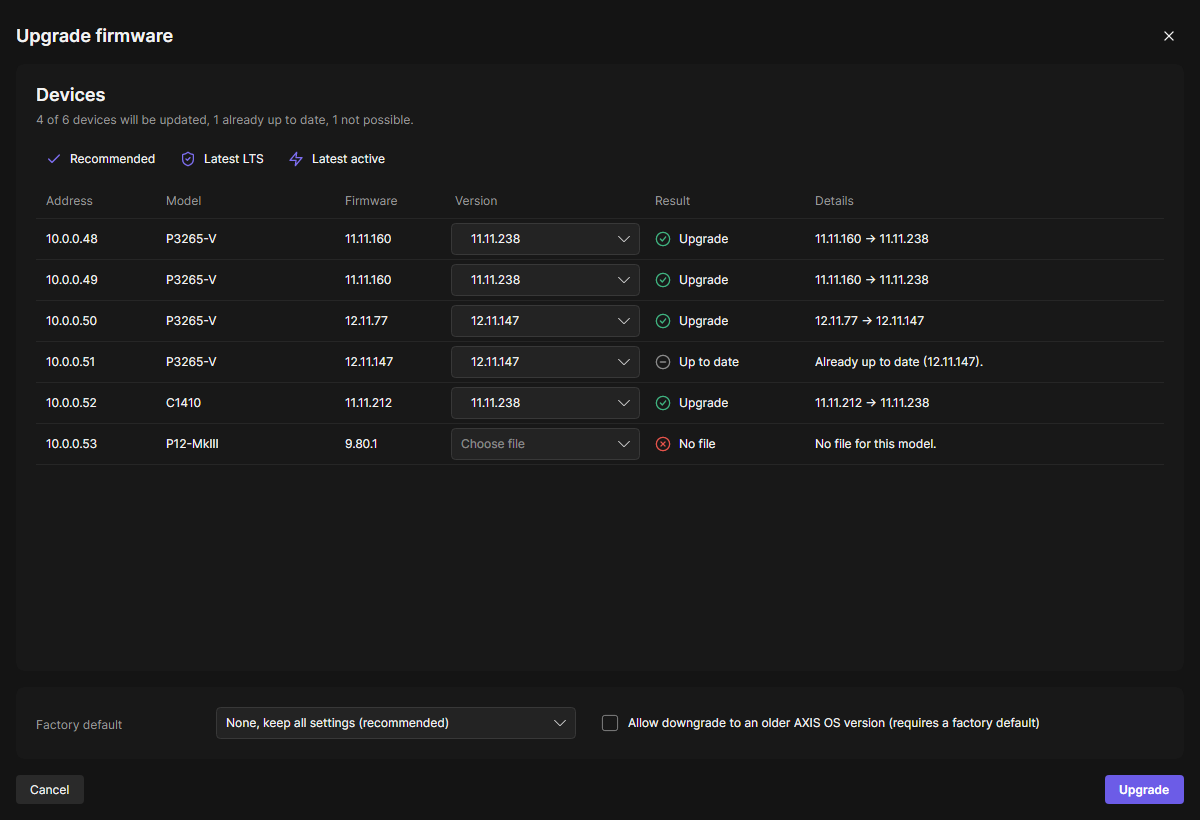
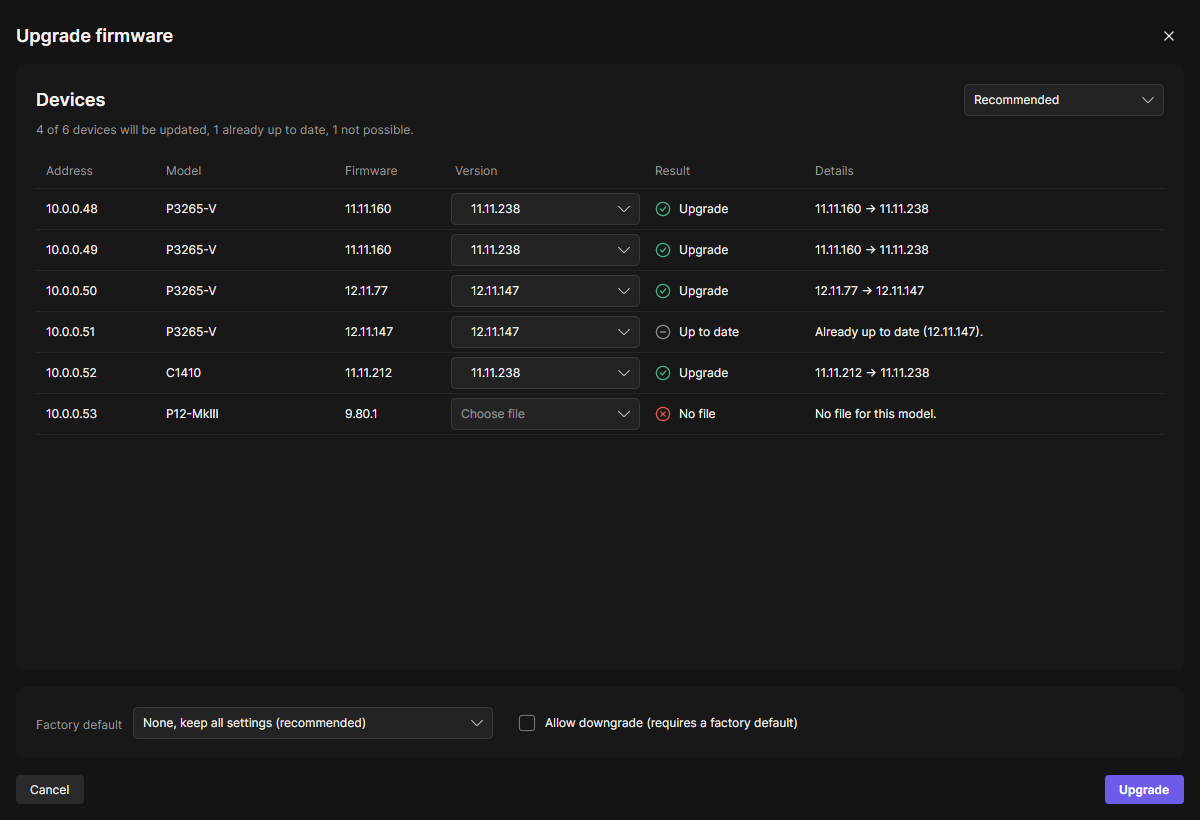
feat(firmware): Set versions select or Sign in to MyAxis in the device card header; tighter options row
One select (Recommended, Latest LTS, Latest active) replaces the three buttons, shown once the versions arrived and signed in; it shows its entry until a device is changed by hand. The sign-in text line is gone. Allow downgrade (requires a factory default).

diff --git a/plugins/Oadm.Plugins.Firmware.Client/FirmwareDialogViewModel.cs b/plugins/Oadm.Plugins.Firmware.Client/FirmwareDialogViewModel.cs
@@ -118,11 +118,54 @@ public sealed partial class FirmwareDialogViewModel : ObservableObject, IDisposa
     public bool CanSignIn { get; }
 
     [ObservableProperty]
-    [NotifyPropertyChangedFor(nameof(ShowSignIn))]
+    [NotifyPropertyChangedFor(nameof(ShowSignIn), nameof(ShowRules))]
     public partial bool IsSignedIn { get; private set; }
 
-    /// <summary>The line "Sign in to MyAxis to download from axis.com." with its button.</summary>
+    /// <summary>The command button "Sign in to MyAxis" right in the header of the device card (not signed in).</summary>
     public bool ShowSignIn => CanSignIn && !IsSignedIn;
+
+    /// <summary>The select "Set versions" right in the header: signed in and the versions of axis.com arrived.</summary>
+    public bool ShowRules => IsSignedIn && HasOnline && !IsLookingUp && !OnlineUnreachable;
+
+    public const string SetVersionsText = "Set versions";
+
+    /// <summary>The entries of the select "Set versions"; each sets every device.</summary>
+    public IReadOnlyList<VersionRule> Rules { get; } =
+    [
+        new("Recommended", OnlineFirmware.Recommended),
+        new("Latest LTS", (model, _) => OnlineFirmware.LatestLts(model)),
+        new("Latest active", (model, _) => OnlineFirmware.LatestActive(model)),
+    ];
+
+    private VersionRule? _selectedRule;
+
+    /// <summary>
+    /// The rule that set every device; it shows until a device is changed by hand, then the select shows "Set versions"
+    /// again. Choosing one applies it to every device (behind the ring for a large selection).
+    /// </summary>
+    public VersionRule? SelectedRule
+    {
+        get => _selectedRule;
+        set
+        {
+            if (value is null || ReferenceEquals(value, _selectedRule))
+            {
+                OnPropertyChanged();
+                return;
+            }
+
+            _ = ApplyRuleAsync(value.Rule, onlyUnchosen: false, value);
+        }
+    }
+
+    private void ShowRule(VersionRule? rule)
+    {
+        if (!ReferenceEquals(rule, _selectedRule))
+        {
+            _selectedRule = rule;
+            OnPropertyChanged(nameof(SelectedRule));
+        }
+    }
 
     /// <summary>Opens the MyAxis sign-in window (set by the dialog: <c>ITaskDialogContext.MyAxis.SignInAsync(window)</c>).</summary>
     public Func<Task<bool>>? SignInHandler { get; set; }
@@ -130,6 +173,7 @@ public sealed partial class FirmwareDialogViewModel : ObservableObject, IDisposa
     /// <summary>True while the versions are read from axis.com.</summary>
     [ObservableProperty]
     [NotifyCanExecuteChangedFor(nameof(RecommendedCommand), nameof(LatestLtsCommand), nameof(LatestActiveCommand))]
+    [NotifyPropertyChangedFor(nameof(ShowRules))]
     public partial bool IsLookingUp { get; private set; }
 
     /// <summary>0-100: models read of all.</summary>
@@ -141,11 +185,13 @@ public sealed partial class FirmwareDialogViewModel : ObservableObject, IDisposa
 
     /// <summary>axis.com did not answer: "axis.com could not be reached." above the table, the devices keep Choose file.</summary>
     [ObservableProperty]
+    [NotifyPropertyChangedFor(nameof(ShowRules))]
     public partial bool OnlineUnreachable { get; private set; }
 
     /// <summary>Some model is listed on axis.com (the buttons have something to set).</summary>
     [ObservableProperty]
     [NotifyCanExecuteChangedFor(nameof(RecommendedCommand), nameof(LatestLtsCommand), nameof(LatestActiveCommand))]
+    [NotifyPropertyChangedFor(nameof(ShowRules))]
     public partial bool HasOnline { get; private set; }
 
     /// <summary>
@@ -433,20 +479,21 @@ public sealed partial class FirmwareDialogViewModel : ObservableObject, IDisposa
             HasOnline = _models.Values.Any(m => m.IsListed);
         }
 
-        await (IsSignedIn ? ApplyRuleAsync(OnlineFirmware.Recommended, onlyUnchosen: true) : RefreshAsync()).ConfigureAwait(true);
+        var none = !Devices.Any(d => d.SelectedChoice is not null);
+        await (IsSignedIn ? ApplyRuleAsync(OnlineFirmware.Recommended, onlyUnchosen: true, none ? Rules[0] : null) : RefreshAsync()).ConfigureAwait(true);
     }
 
     /// <summary>Every device: the newest version on its own track.</summary>
     [RelayCommand(CanExecute = nameof(CanApplyRule))]
-    private Task RecommendedAsync() => ApplyRuleAsync(OnlineFirmware.Recommended, onlyUnchosen: false);
+    private Task RecommendedAsync() => ApplyRuleAsync(Rules[0].Rule, onlyUnchosen: false, Rules[0]);
 
     /// <summary>Every device: the newest LTS track of its model.</summary>
     [RelayCommand(CanExecute = nameof(CanApplyRule))]
-    private Task LatestLtsAsync() => ApplyRuleAsync((model, _) => OnlineFirmware.LatestLts(model), onlyUnchosen: false);
+    private Task LatestLtsAsync() => ApplyRuleAsync(Rules[1].Rule, onlyUnchosen: false, Rules[1]);
 
     /// <summary>Every device: the active track of its model, else its newest version.</summary>
     [RelayCommand(CanExecute = nameof(CanApplyRule))]
-    private Task LatestActiveAsync() => ApplyRuleAsync((model, _) => OnlineFirmware.LatestActive(model), onlyUnchosen: false);
+    private Task LatestActiveAsync() => ApplyRuleAsync(Rules[2].Rule, onlyUnchosen: false, Rules[2]);
 
     private bool CanApplyRule() => HasOnline && !IsLookingUp && !IsUploading && !IsBusy;
 
@@ -455,8 +502,9 @@ public sealed partial class FirmwareDialogViewModel : ObservableObject, IDisposa
     /// <see cref="BackgroundFrom"/> devices it runs off the UI thread behind the busy ring (HARD RULE loading feedback: the
     /// three buttons take about 0.6 s each at 100,000 devices); only setting the results touches the rows on the UI thread.
     /// </summary>
-    private Task ApplyRuleAsync(Func<OnlineModel, int?, string?> rule, bool onlyUnchosen)
+    private Task ApplyRuleAsync(Func<OnlineModel, int?, string?> rule, bool onlyUnchosen, VersionRule? shown = null)
     {
+        ShowRule(shown);
         if (Devices.Count < BackgroundFrom)
         {
             SetPicks(Picks([.. Devices], rule, onlyUnchosen));
@@ -614,12 +662,13 @@ public sealed partial class FirmwareDialogViewModel : ObservableObject, IDisposa
         }
 
         IsSignedIn = signedIn;
-        _ = signedIn && _lookupDone ? ApplyRuleAsync(OnlineFirmware.Recommended, onlyUnchosen: true) : RefreshAsync();
+        _ = signedIn && _lookupDone ? ApplyRuleAsync(OnlineFirmware.Recommended, onlyUnchosen: true, Devices.Any(d => d.SelectedChoice is not null) ? null : Rules[0]) : RefreshAsync();
     }
 
     /// <summary>The user chose in one device's field: only that device changes.</summary>
     private void OnChosen(FirmwareDeviceRow row, GroupedChoice? choice)
     {
+        ShowRule(null); // changed by hand: the select shows "Set versions" again
         if (choice?.Value is ChooseFileAction)
         {
             _ = ChooseFileForAsync(row);
@@ -1112,6 +1161,12 @@ public sealed partial class FirmwareDialogViewModel : ObservableObject, IDisposa
         OnPropertyChanged(nameof(StartBlockedReason));
         StartCommand.NotifyCanExecuteChanged();
     }
+}
+
+/// <summary>An entry of the select "Set versions": its name and the version it gives a device (model, AXIS OS major).</summary>
+public sealed record VersionRule(string Name, Func<OnlineModel, int?, string?> Rule)
+{
+    public override string ToString() => Name;
 }
 
 /// <summary>Ids shared with the server part (kept here so the client does not reference the server assembly).</summary>

diff --git a/tests/Oadm.Plugins.Firmware.Tests/FirmwareOnlineDialogTests.cs b/tests/Oadm.Plugins.Firmware.Tests/FirmwareOnlineDialogTests.cs
@@ -183,6 +183,57 @@ public sealed class FirmwareOnlineDialogTests
     }
 
     [Fact]
+    public async Task The_select_sets_every_device_and_shows_its_rule_until_a_device_is_changed_by_hand()
+    {
+        Device[] devices = [new("10.0.1.1", "Q1800-LE", "11.11.200"), new("10.0.1.2", "Q1800-LE", "12.11.100"), new("10.0.1.3", "Q1800-LE", "13.0.88")];
+        var gate = new TaskCompletionSource(TaskCreationOptions.RunContinuationsAsynchronously);
+        var ctx = Context(ActiveSite());
+        var online = ctx.Online!;
+        ctx.Online = async (method, payload, ct) =>
+        {
+            await gate.Task.WaitAsync(ct);
+            return await online(method, payload, ct);
+        };
+        using var vm = new DialogViewModel(ctx, devices, new FakeFileSource());
+        Assert.False(vm.ShowRules); // nothing read yet
+        Assert.False(vm.ShowSignIn); // signed in: the select, never the button
+
+        var lookup = vm.LoadOnlineAsync(CancellationToken.None);
+        Assert.False(vm.ShowRules); // hidden while the lookup runs
+        gate.SetResult();
+        await lookup;
+
+        Assert.True(vm.ShowRules);
+        Assert.Equal(["Recommended", "Latest LTS", "Latest active"], vm.Rules.Select(r => r.Name));
+        Assert.Equal("Recommended", vm.SelectedRule?.Name); // the dialog opened with Recommended
+
+        vm.SelectedRule = vm.Rules[1];
+        Assert.Equal("Latest LTS", vm.SelectedRule?.Name);
+        Assert.Equal(["12.11.147", "12.11.147", "12.11.147"], vm.Devices.Select(Chosen));
+
+        // A device changed by hand: only that device, and the select shows "Set versions" again.
+        vm.Devices[0].SelectedChoice = vm.Devices[0].Choices.Single(c => c.Text == "11.11.238");
+        Assert.Null(vm.SelectedRule);
+        Assert.Equal(["11.11.238", "12.11.147", "12.11.147"], vm.Devices.Select(Chosen));
+        Assert.Equal("Set versions", DialogViewModel.SetVersionsText);
+    }
+
+    [Fact]
+    public async Task Signed_out_or_without_axis_com_there_is_no_select()
+    {
+        using var signedOut = new DialogViewModel(Context(ActiveSite(), signedIn: false), Selection(), new FakeFileSource());
+        await signedOut.LoadOnlineAsync(CancellationToken.None);
+        Assert.False(signedOut.ShowRules);
+        Assert.True(signedOut.ShowSignIn); // the button instead
+
+        using var down = new DialogViewModel(Context(new FakeAxisSite { Down = true }), Selection(), new FakeFileSource());
+        await down.LoadOnlineAsync(CancellationToken.None);
+        Assert.False(down.ShowRules);
+        Assert.False(down.ShowSignIn);
+        Assert.True(down.OnlineUnreachable);
+    }
+
+    [Fact]
     public async Task A_large_selection_sets_and_judges_behind_the_ring_with_the_buttons_waiting()
     {
         Device[] devices = [new("10.0.1.1", "Q1800-LE", "11.11.200"), new("10.0.1.2", "Q1800-LE", "12.11.100"), new("10.0.1.3", "Q1800-LE", "13.0.88")];

diff --git a/tests/Oadm.Plugins.Firmware.Tests/FirmwareTaskPluginTests.cs b/tests/Oadm.Plugins.Firmware.Tests/FirmwareTaskPluginTests.cs
@@ -136,7 +136,7 @@ public sealed class FirmwareTaskPluginTests
 
         var ex = await Assert.ThrowsAsync<InvalidOperationException>(() => Run(ctx, payload, new FakeDevice(), Plugin(), CancellationToken.None));
 
-        Assert.Contains("Downgrade 11.11.160 → 10.12.236 (older major version) is not allowed. Turn on \"Allow downgrade to an older AXIS OS version\".", ex.Message, StringComparison.Ordinal);
+        Assert.Contains("Downgrade 11.11.160 → 10.12.236 (older major version) is not allowed. Turn on \"Allow downgrade\".", ex.Message, StringComparison.Ordinal);
         Assert.Contains("Nothing was changed", ex.Message, StringComparison.Ordinal);
         Assert.DoesNotContain("upgrade", device.Methods);
         Assert.Equal(

diff --git a/plugins/Oadm.Plugins.Firmware/Shared/FirmwareCompatibility.cs b/plugins/Oadm.Plugins.Firmware/Shared/FirmwareCompatibility.cs
@@ -68,7 +68,7 @@ public sealed record FirmwareCheck(FirmwareVerdict Verdict, string Message)
 public static class FirmwareCompatibility
 {
     /// <summary>The downgrade checkbox of the dialog as the refusals name it (its label without the hint in brackets).</summary>
-    public const string AllowDowngradeName = "Allow downgrade to an older AXIS OS version";
+    public const string AllowDowngradeName = "Allow downgrade";
 
     /// <param name="apps">The device's installed applications (<see cref="InstalledAppRules"/>); null when not read.</param>
     public static FirmwareCheck Evaluate(string? deviceModel, string? deviceVersion, FirmwareImageInfo image, FactoryDefaultMode mode, bool allowDowngrade,

diff --git a/plugins/Oadm.Plugins.Firmware/README.md b/plugins/Oadm.Plugins.Firmware/README.md
@@ -81,7 +81,7 @@ Evaluated per device in the dialog (preview) and again on the server right befor
 | Same version | any | any | **Done with warning** "Already up to date", nothing uploaded |
 | Newer version | none | any | **Upgrade**, settings kept, OADM commits after verifying |
 | Newer version | soft / hard | any | **Upgrade + factory default**, device commits itself |
-| Older version (same or older major line) | any | off | **Refused** "Downgrade X → Y is not allowed. Turn on "Allow downgrade to an older AXIS OS version"." |
+| Older version (same or older major line) | any | off | **Refused** "Downgrade X → Y is not allowed. Turn on "Allow downgrade"." |
 | Older version | none | on | **Refused** "requires a factory default" (the device would answer 409) |
 | Older version | soft / hard | on | **Downgrade + factory default**, device commits itself |
 | Version or product unknown (other file name, device version unknown) | none | any | **Upload**, the device validates the image |
@@ -155,19 +155,21 @@ One table of the selected devices (virtualized, up to 100,000): Address, Model, 
 tooltip), Details. Version is the select of that device: the versions axis.com lists for its model grouped by track
 (details in "Firmware online"), the files chosen for devices of that model, and **Choose file** last (a local `.bin` for
 that device). The list is one per model and shared by its devices. Choosing on one device changes only that device; the
-buttons above the table set every device. A device without a choice shows "No file" ("No file for this model.") once
+select **Set versions** right in the header of the device card (same row as the title) sets every device. The right of
+that header shows either that select (signed in and the versions of axis.com arrived; hidden while the lookup runs and
+when it failed) or the command button **Sign in to MyAxis** (not signed in); there is no sign-in text line. A device without a choice shows "No file" ("No file for this model.") once
 another device has one. A chosen file is judged per device in its Result (Invalid file, Wrong product). Files given
 together (`SelectFilesAsync`, drag and drop and tests) go to the devices of their model; a refused file or two files for
 one product ("Two files are for P3265-V. Choose one file per model.") show directly below the table and block Upgrade.
-From 2,000 selected devices (`BackgroundFrom`), the buttons, the options and the end of the lookup judge every device
-off the UI thread behind a ring over the table ("Setting the versions", "Checking the devices"; the buttons and Upgrade
-wait); at 100,000 devices the three buttons take about 1 s each. One device's choice judges only that device.
+From 2,000 selected devices (`BackgroundFrom`), the select, the options and the end of the lookup judge every device
+off the UI thread behind a ring over the table ("Setting the versions", "Checking the devices"; the select and Upgrade
+wait); at 100,000 devices each entry takes about 1 s. One device's choice judges only that device.
 
 The Firmware column is refreshed by the status query: read for the first 50 devices when the dialog opens, for other rows
 when the grid shows them, at most 4 queries at a time; a row shows the chip "Reading" until its query answered.
 
-Options below the table in one row: Factory default none (default) / soft / hard (label left of the select) and
-"Allow downgrade" next to it, the warnings below. **Upgrade** is enabled when at
+Options below the table in one row: Factory default none (default) / soft / hard (label left of the select, normal form
+spacing) and "Allow downgrade (requires a factory default)" next to it, the warnings below. **Upgrade** is enabled when at
 least one device would install. The dialog narrows the devices (`ShowForDevicesAsync`): tasks start only for the devices
 that install a file, none for devices already up to date, without a file for their model or refused (Wrong product,
 Downgrade blocked). It uploads the files with `ITaskDialogContext.UploadAsync` (only those a device installs, one after
@@ -222,8 +224,9 @@ starts the run ([docs/spec/myaxis.md](../../docs/spec/myaxis.md)).
   `ver.txt` are public. OADM downloads with the MyAxis sign-in of the user who starts the run, through the host
   (`ctx.AxisDownloads`); the plugin never sees the session.
 - **Dialog.** One device table (README "Dialog"); per device a **Version** select grouped by track names, every version
-  of its model newest first, the chosen files and **Choose file** last. Above the table, command buttons that set every
-  device (one pass, the rule computed once per model and AXIS OS major):
+  of its model newest first, the chosen files and **Choose file** last. The select **Set versions** (placeholder) in the header sets every
+  device (one pass, the rule computed once per model and AXIS OS major). It keeps showing its entry until a device is
+  changed by hand, then shows "Set versions" again (`VersionRule`, `SelectedRule`):
   - **Recommended**: the newest version on the device's own track, the track of its AXIS OS major (11.8 and 11.11 are
     both on 11.11; the active track stays active, 9.80 stays 9.80); a track axis.com no longer lists for the model, or a
     device of unknown version: its newest LTS.
@@ -234,11 +237,11 @@ starts the run ([docs/spec/myaxis.md](../../docs/spec/myaxis.md)).
   ("AXIS OS 11.11.192 is no longer on axis.com."). While the lookup runs, a progress line shows "Reading the versions on
   axis.com, 40 of 120 models" and Upgrade waits. Signed in, the dialog opens with Recommended; not signed in, every
   device starts on Choose file, the versions show for information, choosing one says "Sign in to MyAxis to download from
-  axis.com." in its Result, and the line above the table has **Sign in to MyAxis** (`ITaskDialogContext.MyAxis.SignInAsync`);
-  signing in sets Recommended on the devices without a choice. The decision table, the upgrade path advice and the apps
+  axis.com." in its Result, and the header has the button **Sign in to MyAxis** (`ITaskDialogContext.MyAxis.SignInAsync`);
+  signing in sets Recommended on the devices without a choice (the select shows Recommended when no device had one). The decision table, the upgrade path advice and the apps
   check apply unchanged: an online version is a file with a known product and version.
 - **Payload.** Per device either a chosen file or a version from axis.com; the server reads that version's folder itself
-  for the URL, size and SHA-256 and never takes them from the client. Small in the usual case (the buttons):
+  for the URL, size and SHA-256 and never takes them from the client. Small in the usual case (the select):
   `"online":[{"source":"MPQT","product":"P3265-V","version":"12.11.147","fromMajor":11}]` is for every device of that
   product and AXIS OS major; a device whose version differs from most of its product and major is named:
   `{"source","product","version","devices":[id]}`. Files keep the old fields (`fileId`, `fileName`, `files`); a file
@@ -326,7 +329,7 @@ online: `OnlineListingTests` and `OnlineLookupTests` from the recorded pages in 
 roots; `FakeAxisSite` makes up other version folders), `OnlineRulesTests` (match, tracks, the three rules),
 `OnlineTaskTests` (a test-local `FakeAxisDownloads`), `FirmwareOnlineDialogTests` (the dialog against the plugin's real
 queries; the server takes for every device of the run what the dialog showed), a Perf test with 100,000 devices (rows,
-lookup, the three buttons, one device's choice), headless screenshots (signed in with Recommended, signed out) and the opt-in `OnlineLiveTests` (`OADM_AXIS_LIVE=1`, `Category=Live`: the real listings of axis.com, read only).
+lookup, the three entries of the select, one device's choice), headless screenshots (signed in with Recommended, signed out) and the opt-in `OnlineLiveTests` (`OADM_AXIS_LIVE=1`, `Category=Live`: the real listings of axis.com, read only).
 
 Never run against hardware: upload, commit, any factory default. Still to verify on a test device: numeric
 `autoRollback` as a JSON string (`"30"`), the exact answer timing of `upgrade` (before or after flashing), anonymous
